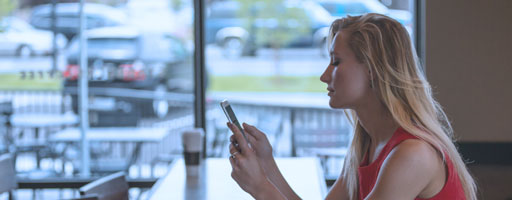
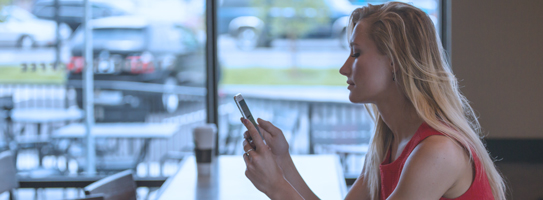
I added in resposive images and descriptions about our pages and a trigger page to seek profssional help with top resourses.

diff --git a/index.html b/index.html
@@ -10,24 +10,57 @@
     <title>Be Well | Home</title>
 </head>
 <body>
+
+<!-- Main Containter -->
    <div class="container">
+       <!-- Top Image -->
     <div class="row">
         <img class="header-img width-height-100 margin-zero-auto padding-botton-25px" src="images/header-img.jpg">
     </div>
+    <!-- Overall about Be Well Page -->
     <div class="row">
         <h1 class="margin-zero-auto color-dark-blue font-montserrat font-weight-900"> Welcome</h1>
     </div>
     <div class="row">
         <p class="text-align-center color-dark-blue font-montserrat font-weight-500"> Sometimes it's not easy to ask for help but we believe we can be the first step on the path of self help. Something as simple as gaining a personal routine can feel like a major tifumph in a world that can make you feel defeated. You can use Be Well as a tool to get your life back in order and find a resourse that fits your individual need. It's not always easy to ask for help but looking for answers is a huge first step on your path to self improvement. Learn more about us be for you dive into our content. We're here for you.  </p>
     </div>
-    <div class="row">
-        <h2 class="margin-zero-auto color-dark-blue font-montserrat font-weight-900"> About Be well Reminders </h2>
-    </div>
+   <!-- Image of woman on phone to be a visual trigger for the wellness reminders -->
     <div class="row">
         <img class="page-img width-height-100 margin-zero-auto padding-botton-25px" src="images/woman-on-phone-coffee-shop.jpg">
     </div>
+    <!-- Start of About Be Well Reminders -->
     <div class="row">
-        <p class="text-align-center color-dark-blue font-montserrat font-weight-500">  With your phone number you are able to sign up for Be Well Reminders. They allow the user to keep in mind the important things when they need them most. From normal day-to-day hygine reminders to personalized lifesyle choices. You can be reminded of random mantras to remind you of the positive things about yourslef you may forget from time to time. Life can get tough but Be Well Reminders can help keep you looking on the brighter side of life. Anything worth doing is worth doing poorly. Even a small step in the right direction is still a step towards sucess. </p>
+        <h2 class="color-dark-blue font-montserrat font-weight-900"> About Be well Reminders </h2>
+    </div>
+    <div class="row">
+        <p class="text-align-left color-dark-blue font-montserrat font-weight-500">  With your phone number you are able to sign up for Be Well Reminders. They allow the user to keep in mind the important things when they need them most. From normal day-to-day hygine reminders to personalized lifesyle choices. You can be reminded of random mantras to remind you of the positive things about yourslef you may forget from time to time. Life can get tough but Be Well Reminders can help keep you looking on the brighter side of life. Anything worth doing is worth doing poorly. Even a small step in the right direction is still a step towards sucess. </p>
+   </div>
+   <!-- End of About Be Well Reminders -->
+<!-- Image of Sheep to be visual trigger for Discussion Board -->
+   <div class="row">
+    <img class="page-img width-height-100 margin-zero-auto padding-botton-25px" src="images/sheep-2372148.jpg">
+</div>
+<!-- Start of About Discussion Board Benifits -->
+<div class="row">
+    <h2 class="color-dark-blue font-montserrat font-weight-900"> Discussion Board </h2>
+</div>
+<div class="row">
+    <p class="text-align-left color-dark-blue font-montserrat font-weight-500">  At Be Well we understand that sometimes the best way to start your journey is to connect with people who know exactly what you're dealing with. With our Discussion Board you can connect to individuals through topic channels. If you do not find a topic on your issue you can always anonymously start your own. This allows people to freely and safely comunicate about sensitive issues they thought no one could understant. By realizing others are going through similar issues if can help you realize you are not alone and hopeully ease you into having a harder conversation with those closest to you in your lives. </p>
+</div>
+<!-- End of About Discussion Board Benifits -->
+<!-- Image of two women to be visual trigger for our get help message-->
+<div class="row">
+        <img class="page-img width-height-100 margin-zero-auto padding-botton-25px" src="images/woman-leaf.jpg">
+    </div>
+    <!-- Start of get help message -->
+    <div class="row">
+        <h2 class="color-dark-blue font-montserrat font-weight-900"> Never Be Afraid to Ask for Help! </h2>
+    </div>
+    <div class="row">
+        <p class="text-align-left color-dark-blue font-montserrat font-weight-500">  While we pride ourself in being a useful first step on your journey we highly encourage the use of professional help. There are a variety of resources available in most areas for people who need the help but may not be able to easily acess it. If talking to a professional is still not an option at least getting in contact with a trusted family member, friend, or advisor. You are never alone and there are people who care. all you have to do is be willing to ask. </p>
+    </div>
+    <!-- End of get help message -->
+
    </div>
     
    <script src="https://code.jquery.com/jquery-3.3.1.slim.min.js" integrity="sha384-q8i/X+965DzO0rT7abK41JStQIAqVgRVzpbzo5smXKp4YfRvH+8abtTE1Pi6jizo" crossorigin="anonymous"></script>

diff --git a/css/styles.css b/css/styles.css
@@ -5,6 +5,9 @@ body{
 .text-align-center{
     text-align: center;
 }
+.text-align-left{
+    text-align: left;
+}
 
 .container{
     background-color: rgba(225, 225, 225, 0.6);
